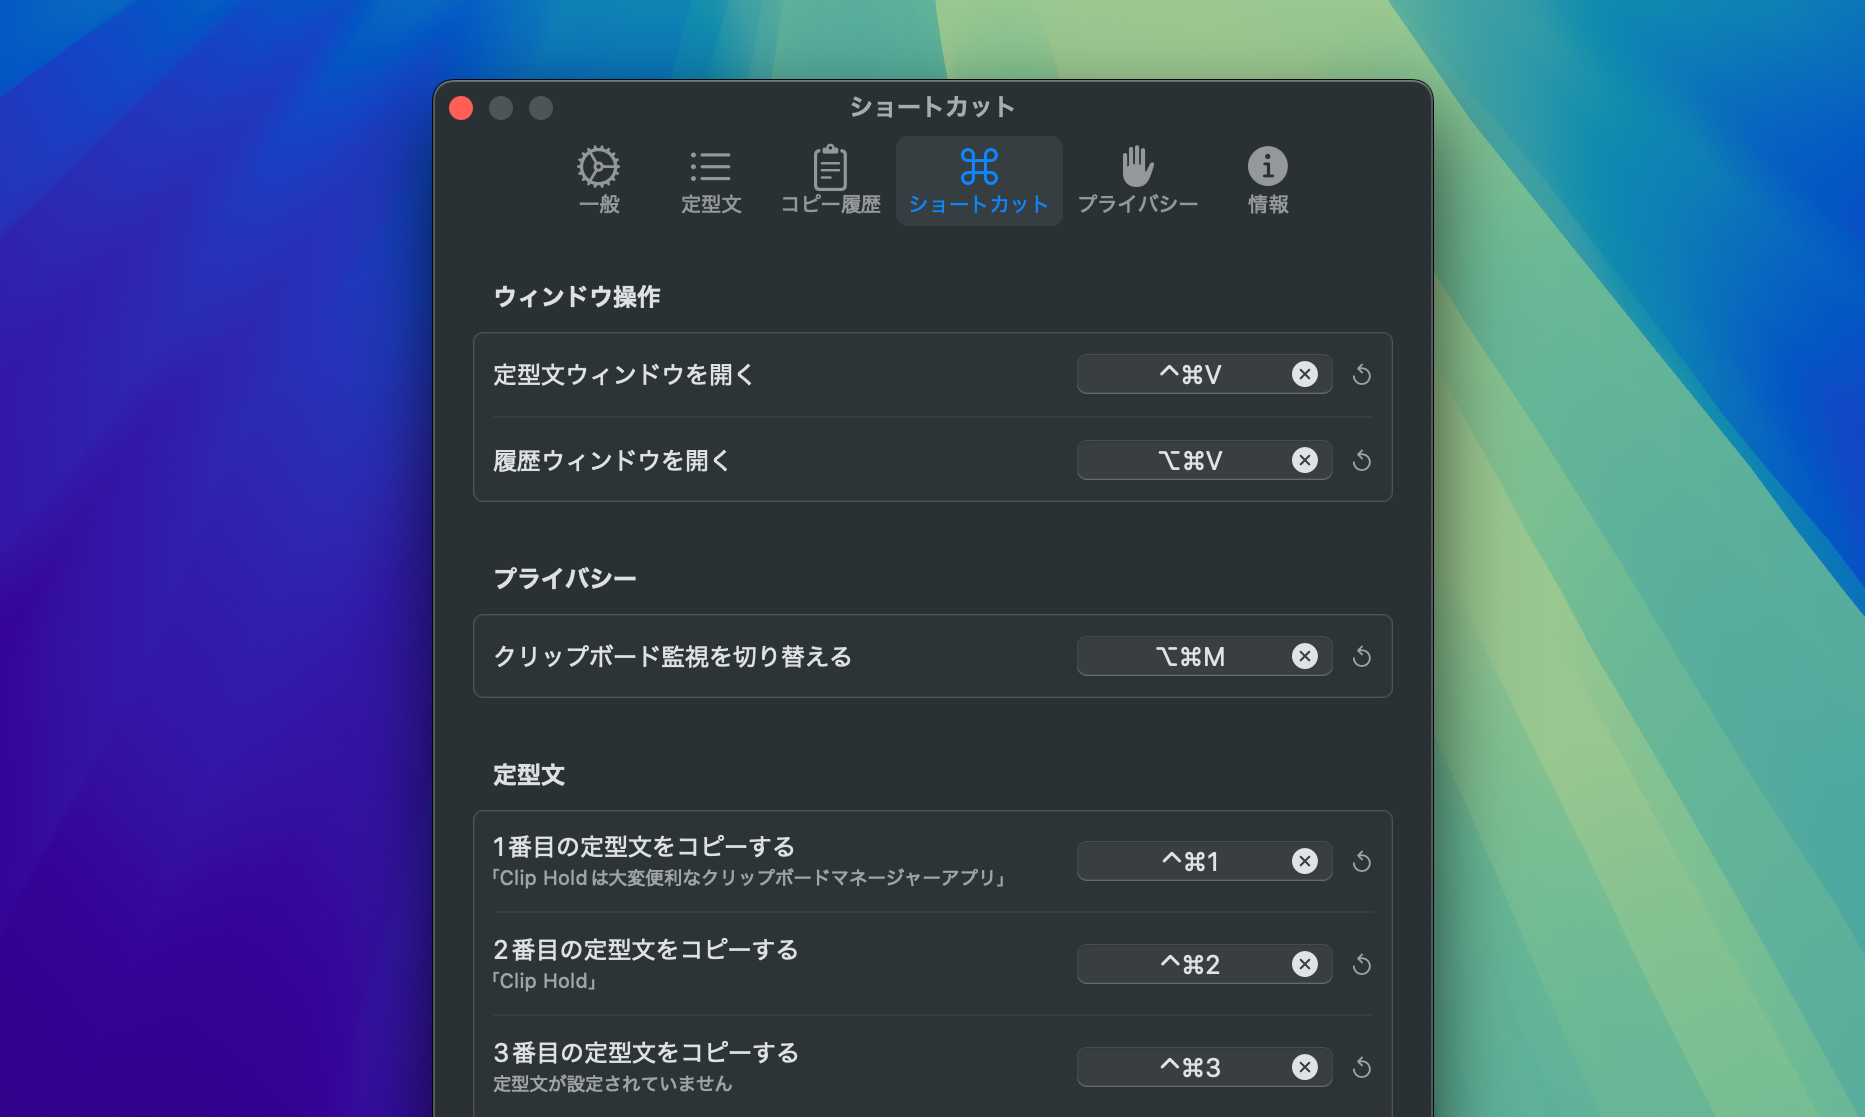
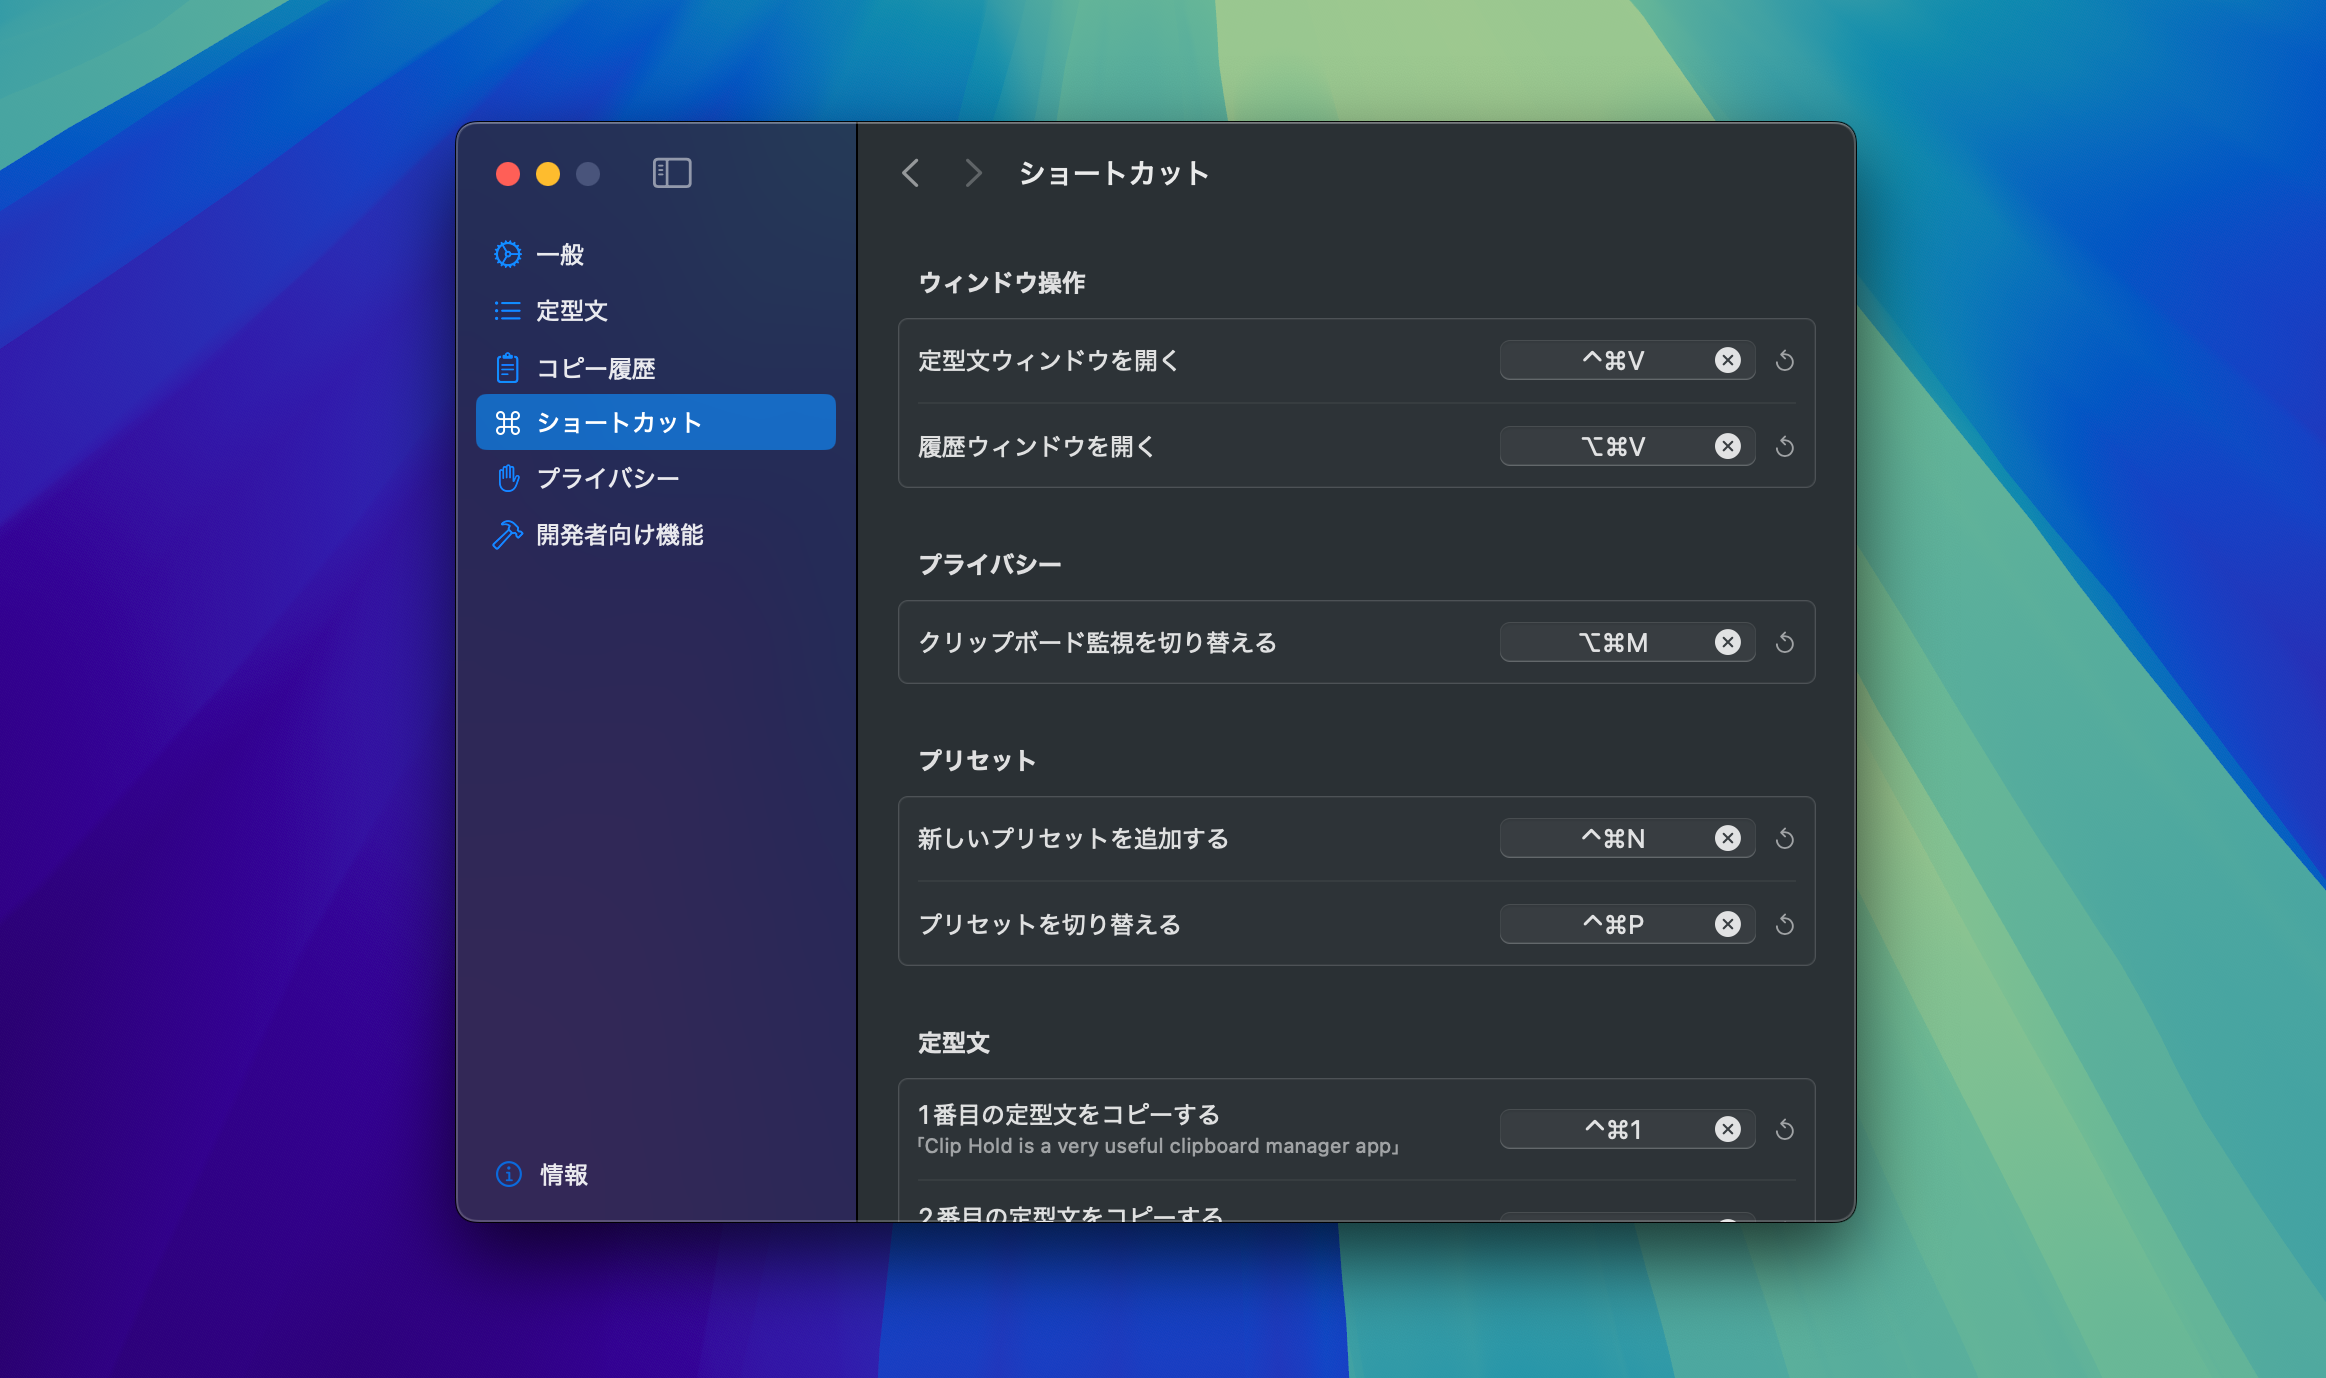
Add 1.3.0 features to README

diff --git a/README.md b/README.md
@@ -52,6 +52,8 @@
   - [create-dmg by Andrey Tarantsov and Andrew Janke](#create-dmg-by-andrey-tarantsov-and-andrew-janke)
 
 ## What is Clip Hold?
+![Standard Phrases and Copy History](docs/images/Standard-Phrase-and-History.png)
+
 Clip Hold is a clipboard and standard phrase manager app for macOS.
 
 > [!NOTE]
@@ -88,6 +90,11 @@ Frequently used standard phrases and copy history items can be accessed quickly 
 
 You can list all standard phrases you have set and all saved history items. You can easily copy an item by simply double-clicking on it.
 
+### Standard Phrases Presets and Assign to Apps Feature
+![Presets](docs/images/Presets.png)
+
+Standard Phrases can be grouped into different presets, and the presets can be automatically switched depending on the app that is opened. Presets can also be switched using shortcut keys.
+
 ### Rich Shortcut Keys
 ![Shortcut Keys](docs/images/Shortcuts.png)
 
@@ -102,6 +109,11 @@ With the "Quick Paste” feature, when you copy an item from the menu or use a s
 ![Import and Export Features](docs/images/Import-Export.png)
 
 Standard phrases and clipboard history can be imported and exported. You can share your favorite standard phrases with someone else, or import clipboard history from another Mac.
+
+### Copied Color Codes Can Be Shown
+![Color Codes](docs/images/Color-Codes.png)
+
+By enabling it from the “Developer Features” settings, you can show the color icons based on the copied color codes in the history window and the menu.
 
 ### Perfect Privacy
 Clip Hold does **not collect any user-related information**.\
